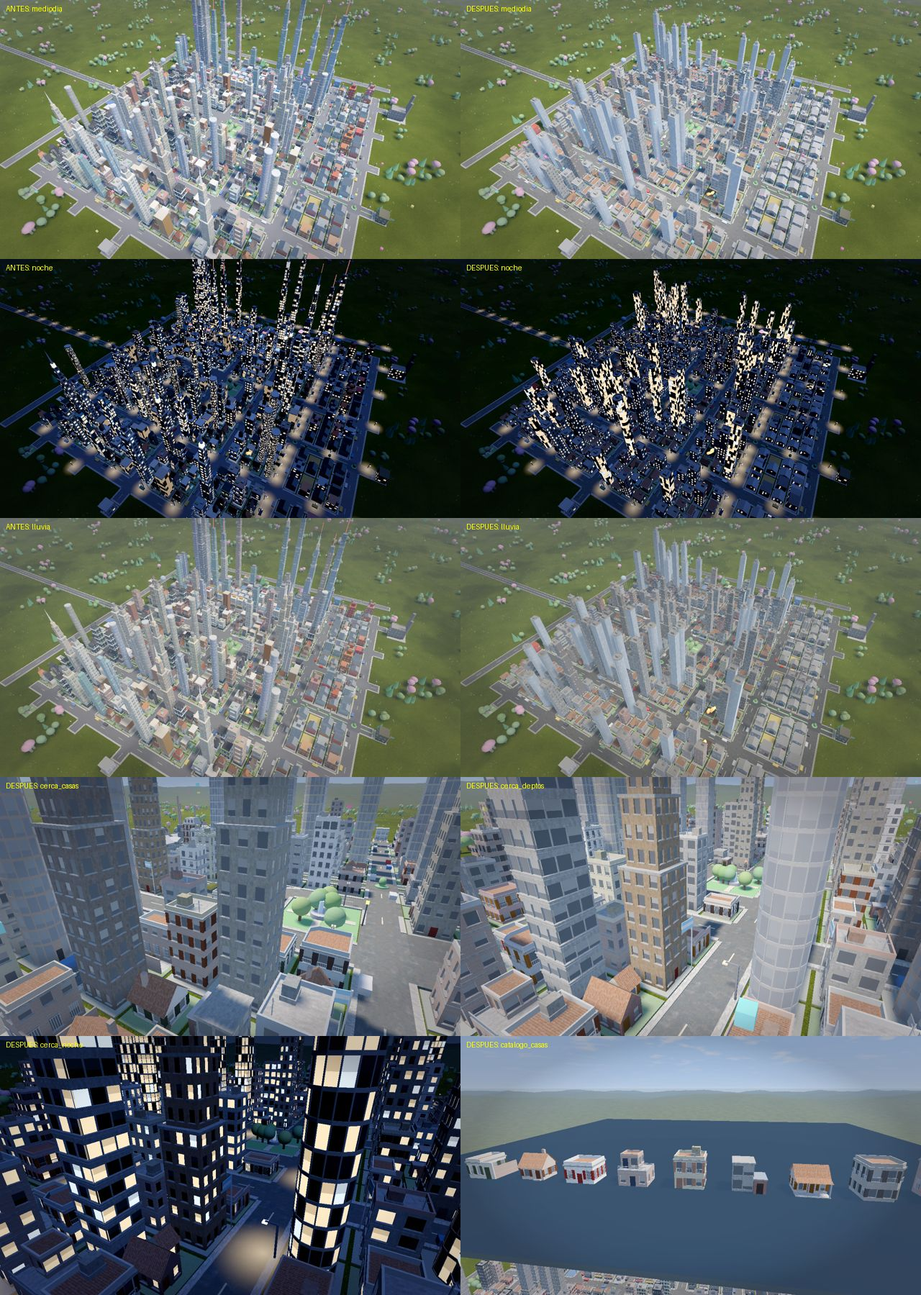
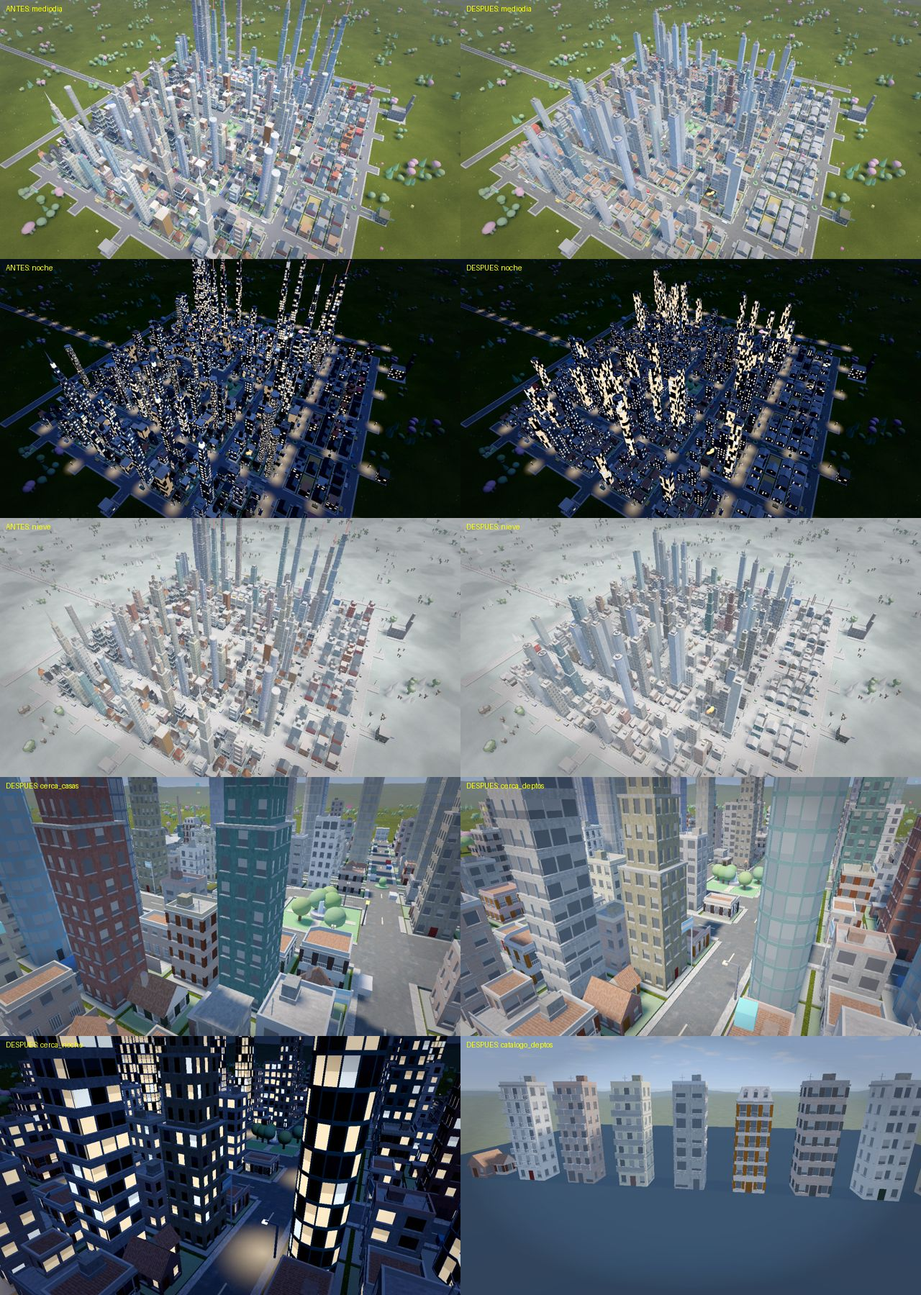
Etapa 2a+2b: álbum y mediciones finales
Claude-Session: https://claude.ai/code/session_01YB9Dc92xmq6H6FGJkdTJWP

diff --git a/docs/superpowers/hoja-de-ruta.md b/docs/superpowers/hoja-de-ruta.md
@@ -4,7 +4,7 @@
 |---|---|---|
 | 0 | Proyecto base en `godot/`, pruebas automáticas | hecha |
 | 1 | Luz, cielo, terreno y agua | hecha |
-| 2a+2b | Materiales reales y edificios con volumen | en revisión del autor |
+| 2a+2b | Materiales reales y edificios con volumen | hecha, falta la aprobación del autor |
 | 2c | Árboles y vegetación | pendiente |
 | 2d | Objetos de calle (faroles, semáforos, autos estacionados, cables) | pendiente |
 | 2e | Edificios especiales (escuela, estadio, usinas, maravillas) | pendiente |
